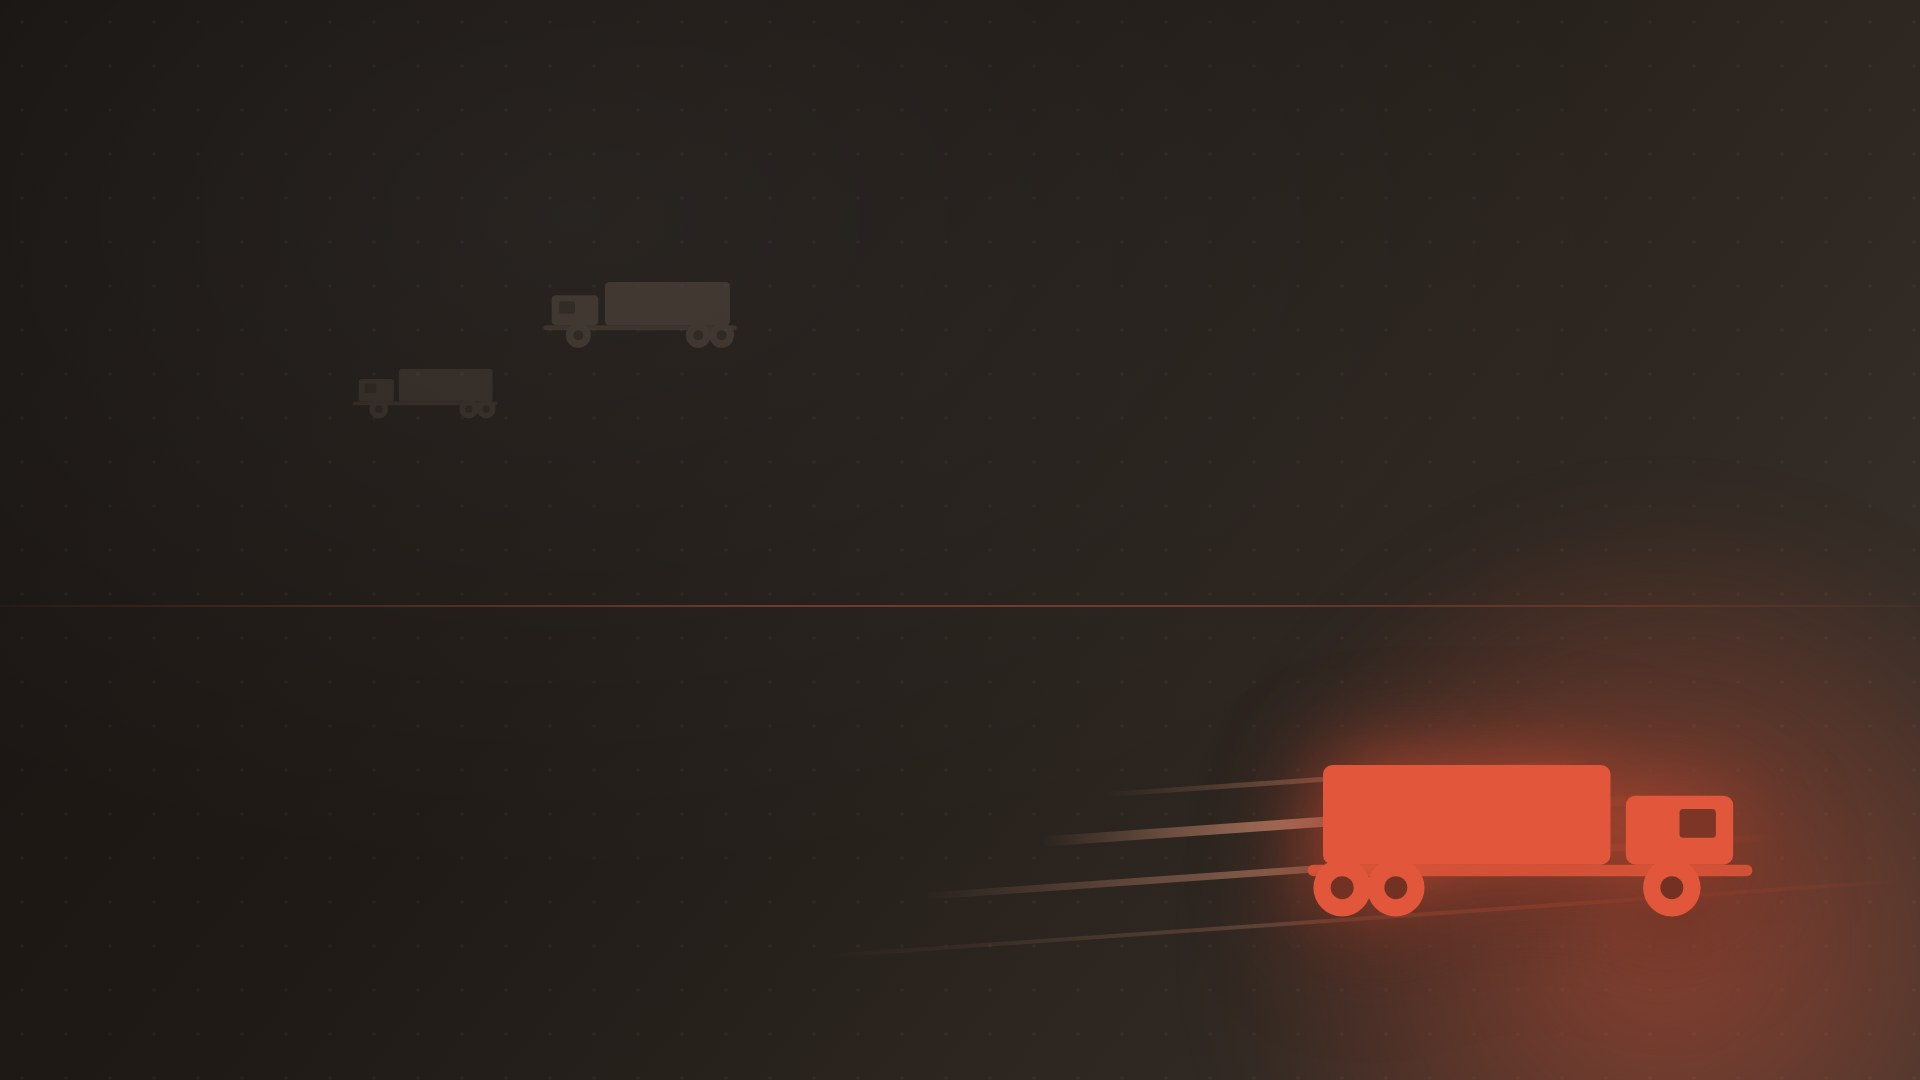
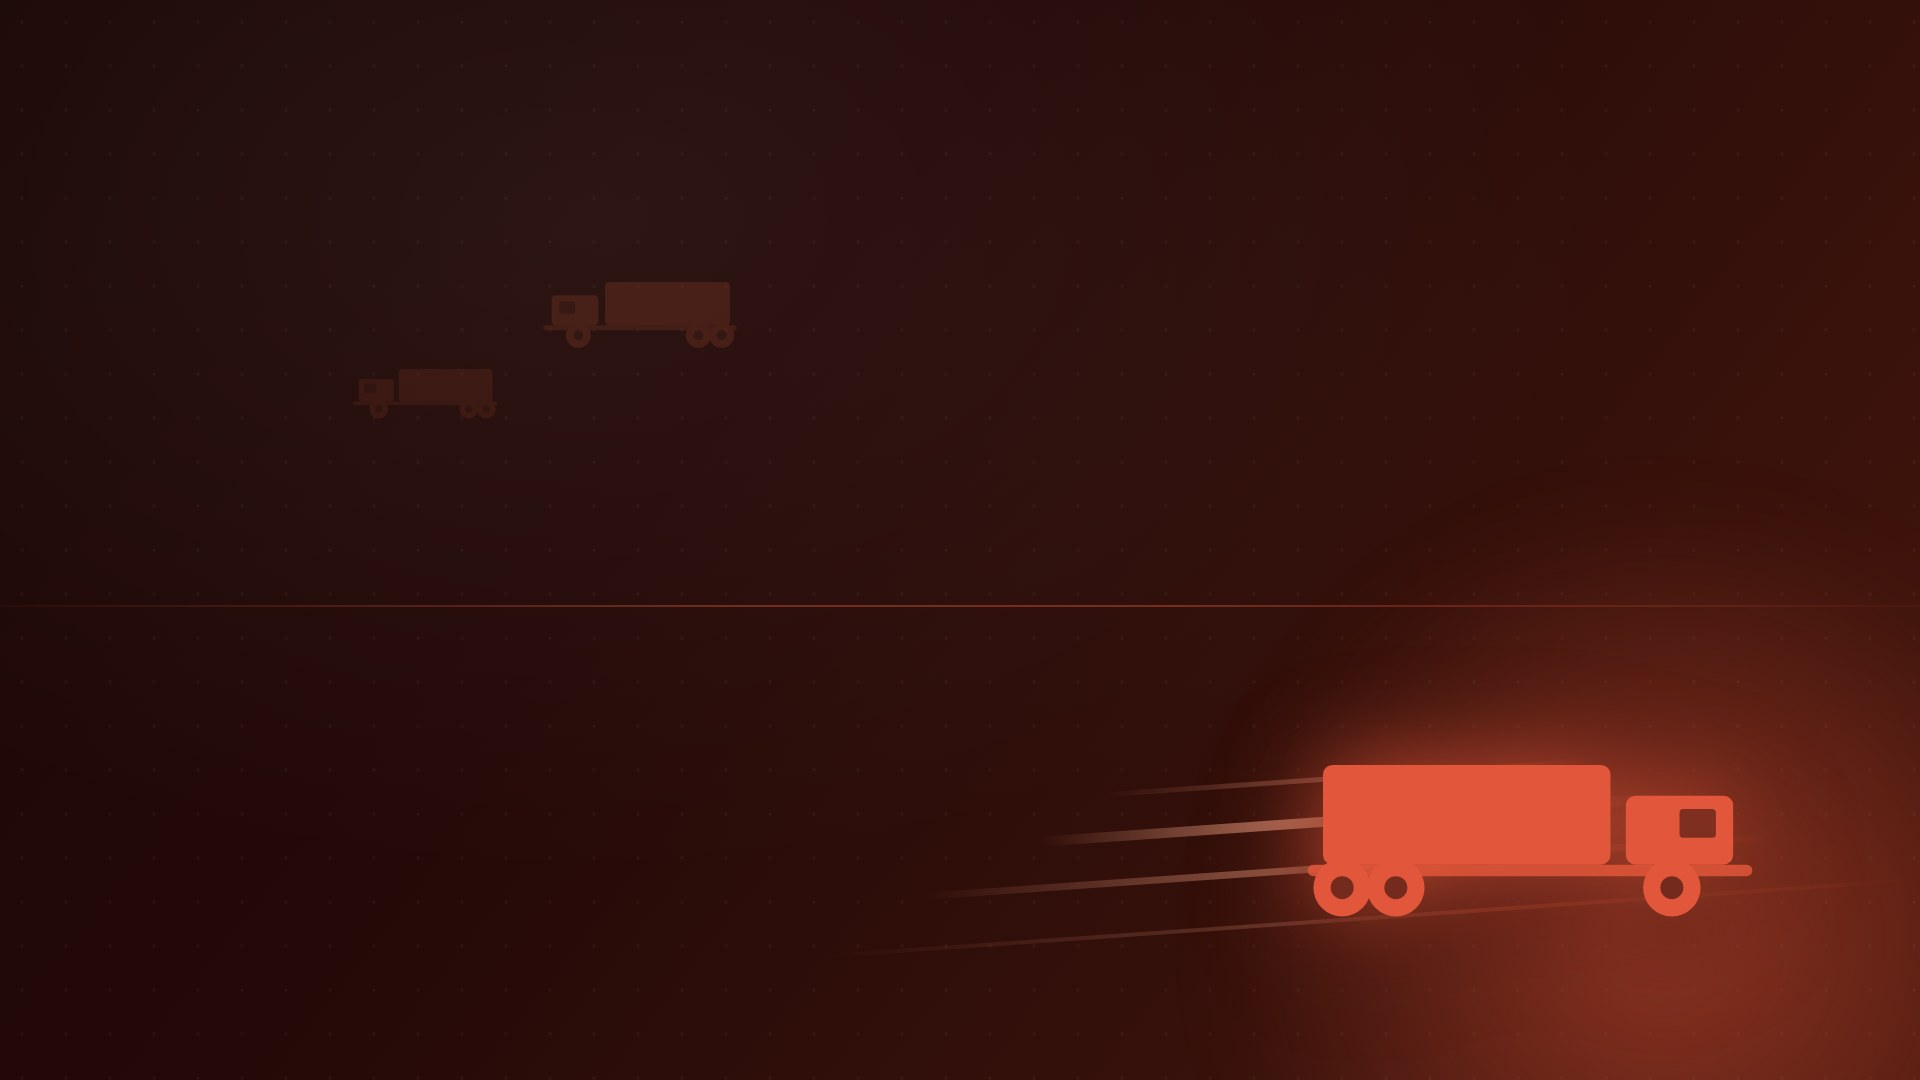
Fix dark theme reading as brown — shift ink ramp to true maroon
The dark "ink" palette introduced for the hero/footer/page-header
sections had hue ~25° (orange-leaning) at low saturation, which reads
as brown rather than a dark shade of the brand red. Rebuilt that ramp
at hue ~6-9° (matching the reference red's own hue) so it reads as a
deep maroon/near-black-red instead:

  --navy-950: #171310 -> #1a0705
  --navy-900: #1f1a16 -> #230907
  --navy-800: #2b241f -> #321008
  --navy-700: #3c332c -> #45170d
  --navy-600: #52453b -> #5e2414

Also re-neutralised the grey-* scale (it shared the old brown hue) so
body text and borders read as true neutral rather than warm-brown, and
updated the few hardcoded rgba() shadow/overlay values and the
theme-color meta tags to match the new ink RGB. Regenerated the three
brand illustrations (hero poster, fleet yard, OG card) with the new
ramp — visually confirmed they now read as oxblood red, not brown.

Claude-Session: https://claude.ai/code/session_01RRWSvEuv8fcfGytAoFkQom

diff --git a/assets/css/style.css b/assets/css/style.css
@@ -4,22 +4,22 @@
 
 :root {
   /* Brand colours */
-  --navy-950: #171310;
-  --navy-900: #1f1a16;
-  --navy-800: #2b241f;
-  --navy-700: #3c332c;
-  --navy-600: #52453b;
+  --navy-950: #1a0705;
+  --navy-900: #230907;
+  --navy-800: #321008;
+  --navy-700: #45170d;
+  --navy-600: #5e2414;
   --red-900: #5c0a00;
   --red-600: #820f01;
   --red-500: #a8220c;
   --red-400: #e2573b;
   --white: #ffffff;
-  --off-white: #faf9f7;
-  --grey-100: #f1efec;
-  --grey-200: #e3ded8;
-  --grey-400: #a89d92;
-  --grey-600: #6b6058;
-  --grey-800: #2b241f;
+  --off-white: #f9f8f6;
+  --grey-100: #f1efed;
+  --grey-200: #e2ddd9;
+  --grey-400: #a39d97;
+  --grey-600: #635c56;
+  --grey-800: #2a2521;
   --success: #1f9d55;
 
   /* Typography */
@@ -31,9 +31,9 @@
   --radius-sm: 8px;
   --radius-md: 14px;
   --radius-lg: 24px;
-  --shadow-sm: 0 2px 8px rgba(23, 19, 16, 0.08);
-  --shadow-md: 0 12px 32px rgba(23, 19, 16, 0.14);
-  --shadow-lg: 0 24px 60px rgba(23, 19, 16, 0.22);
+  --shadow-sm: 0 2px 8px rgba(26, 7, 5, 0.08);
+  --shadow-md: 0 12px 32px rgba(26, 7, 5, 0.14);
+  --shadow-lg: 0 24px 60px rgba(26, 7, 5, 0.22);
   --ease: cubic-bezier(0.22, 1, 0.36, 1);
 }
 
@@ -163,7 +163,7 @@ p.lead { font-size: 1.15rem; color: var(--grey-600); }
   z-index: 500;
   background: rgba(255, 255, 255, 0.9);
   backdrop-filter: blur(10px);
-  border-bottom: 1px solid rgba(23, 19, 16, 0.08);
+  border-bottom: 1px solid rgba(26, 7, 5, 0.08);
   transition: padding 0.3s var(--ease), box-shadow 0.3s var(--ease);
 }
 .site-header.is-scrolled { box-shadow: var(--shadow-sm); }
@@ -201,7 +201,7 @@ p.lead { font-size: 1.15rem; color: var(--grey-600); }
   position: relative;
   transition: color 0.2s, background 0.2s;
 }
-.main-nav a:hover, .main-nav a.active { color: var(--navy-900); background: rgba(23, 19, 16, 0.05); }
+.main-nav a:hover, .main-nav a.active { color: var(--navy-900); background: rgba(26, 7, 5, 0.05); }
 .main-nav a.active::after {
   content: "";
   position: absolute;
@@ -268,7 +268,7 @@ p.lead { font-size: 1.15rem; color: var(--grey-600); }
 .hero-media::after {
   content: "";
   position: absolute; inset: 0;
-  background: linear-gradient(115deg, rgba(23,19,16,0.94) 10%, rgba(23,19,16,0.75) 45%, rgba(31,26,22,0.55) 100%);
+  background: linear-gradient(115deg, rgba(26,7,5,0.94) 10%, rgba(26,7,5,0.75) 45%, rgba(35,9,7,0.55) 100%);
 }
 .hero-content { position: relative; z-index: 2; padding: 160px 0 110px; max-width: 720px; }
 .hero-content .eyebrow { color: var(--red-400); }
@@ -280,7 +280,7 @@ p.lead { font-size: 1.15rem; color: var(--grey-600); }
 .hero-video-toggle {
   position: absolute; z-index: 2; right: 24px; bottom: 24px;
   display: flex; align-items: center; gap: 8px;
-  background: rgba(23,19,16,0.55);
+  background: rgba(26,7,5,0.55);
   border: 1px solid rgba(255,255,255,0.3);
   color: var(--white);
   padding: 10px 16px;
@@ -299,7 +299,7 @@ p.lead { font-size: 1.15rem; color: var(--grey-600); }
   border-top: 1px solid rgba(255,255,255,0.14);
 }
 .hero-stats .stat {
-  background: rgba(23, 19, 16, 0.55);
+  background: rgba(26, 7, 5, 0.55);
   padding: 22px 20px;
   text-align: left;
 }

diff --git a/about.html b/about.html
@@ -11,7 +11,7 @@
 <meta property="og:description" content="Our story, our values, and why businesses across the South West and South Wales trust us with their deadlines.">
 <meta property="og:image" content="https://www.harleytransport.co.uk/assets/images/og-default.jpg">
 <meta name="twitter:card" content="summary_large_image">
-<meta name="theme-color" content="#1f1a16">
+<meta name="theme-color" content="#230907">
 <link rel="icon" href="assets/images/favicon.ico" sizes="any">
 <link rel="apple-touch-icon" href="assets/images/apple-touch-icon.png">
 <link rel="manifest" href="site.webmanifest">

diff --git a/news/choosing-right-vehicle-size-guide.html b/news/choosing-right-vehicle-size-guide.html
@@ -13,7 +13,7 @@
 <meta property="og:url" content="https://www.harleytransport.co.uk/news/choosing-right-vehicle-size-guide.html">
 <meta property="og:image" content="https://www.harleytransport.co.uk/assets/images/og-default.jpg">
 <meta name="twitter:card" content="summary_large_image">
-<meta name="theme-color" content="#1f1a16">
+<meta name="theme-color" content="#230907">
 <link rel="icon" href="../assets/images/favicon.ico" sizes="any">
 <link rel="apple-touch-icon" href="../assets/images/apple-touch-icon.png">
 <link rel="manifest" href="../site.webmanifest">

diff --git a/news/same-day-vs-next-day-delivery.html b/news/same-day-vs-next-day-delivery.html
@@ -13,7 +13,7 @@
 <meta property="og:url" content="https://www.harleytransport.co.uk/news/same-day-vs-next-day-delivery.html">
 <meta property="og:image" content="https://www.harleytransport.co.uk/assets/images/og-default.jpg">
 <meta name="twitter:card" content="summary_large_image">
-<meta name="theme-color" content="#1f1a16">
+<meta name="theme-color" content="#230907">
 <link rel="icon" href="../assets/images/favicon.ico" sizes="any">
 <link rel="apple-touch-icon" href="../assets/images/apple-touch-icon.png">
 <link rel="manifest" href="../site.webmanifest">

diff --git a/coverage-sectors.html b/coverage-sectors.html
@@ -13,7 +13,7 @@
 <meta property="og:url" content="https://www.harleytransport.co.uk/coverage-sectors.html">
 <meta property="og:image" content="https://www.harleytransport.co.uk/assets/images/og-default.jpg">
 <meta name="twitter:card" content="summary_large_image">
-<meta name="theme-color" content="#1f1a16">
+<meta name="theme-color" content="#230907">
 <link rel="icon" href="assets/images/favicon.ico" sizes="any">
 <link rel="apple-touch-icon" href="assets/images/apple-touch-icon.png">
 <link rel="manifest" href="site.webmanifest">

diff --git a/terms-conditions.html b/terms-conditions.html
@@ -13,7 +13,7 @@
 <meta property="og:url" content="https://www.harleytransport.co.uk/terms-conditions.html">
 <meta property="og:image" content="https://www.harleytransport.co.uk/assets/images/og-default.jpg">
 <meta name="twitter:card" content="summary_large_image">
-<meta name="theme-color" content="#1f1a16">
+<meta name="theme-color" content="#230907">
 <link rel="icon" href="assets/images/favicon.ico" sizes="any">
 <link rel="apple-touch-icon" href="assets/images/apple-touch-icon.png">
 <link rel="manifest" href="site.webmanifest">

diff --git a/privacy-policy.html b/privacy-policy.html
@@ -13,7 +13,7 @@
 <meta property="og:url" content="https://www.harleytransport.co.uk/privacy-policy.html">
 <meta property="og:image" content="https://www.harleytransport.co.uk/assets/images/og-default.jpg">
 <meta name="twitter:card" content="summary_large_image">
-<meta name="theme-color" content="#1f1a16">
+<meta name="theme-color" content="#230907">
 <link rel="icon" href="assets/images/favicon.ico" sizes="any">
 <link rel="apple-touch-icon" href="assets/images/apple-touch-icon.png">
 <link rel="manifest" href="site.webmanifest">

diff --git a/services.html b/services.html
@@ -13,7 +13,7 @@
 <meta property="og:url" content="https://www.harleytransport.co.uk/services.html">
 <meta property="og:image" content="https://www.harleytransport.co.uk/assets/images/og-default.jpg">
 <meta name="twitter:card" content="summary_large_image">
-<meta name="theme-color" content="#1f1a16">
+<meta name="theme-color" content="#230907">
 <link rel="icon" href="assets/images/favicon.ico" sizes="any">
 <link rel="apple-touch-icon" href="assets/images/apple-touch-icon.png">
 <link rel="manifest" href="site.webmanifest">

diff --git a/careers.html b/careers.html
@@ -13,7 +13,7 @@
 <meta property="og:url" content="https://www.harleytransport.co.uk/careers.html">
 <meta property="og:image" content="https://www.harleytransport.co.uk/assets/images/og-default.jpg">
 <meta name="twitter:card" content="summary_large_image">
-<meta name="theme-color" content="#1f1a16">
+<meta name="theme-color" content="#230907">
 <link rel="icon" href="assets/images/favicon.ico" sizes="any">
 <link rel="apple-touch-icon" href="assets/images/apple-touch-icon.png">
 <link rel="manifest" href="site.webmanifest">

diff --git a/contact.html b/contact.html
@@ -13,7 +13,7 @@
 <meta property="og:url" content="https://www.harleytransport.co.uk/contact.html">
 <meta property="og:image" content="https://www.harleytransport.co.uk/assets/images/og-default.jpg">
 <meta name="twitter:card" content="summary_large_image">
-<meta name="theme-color" content="#1f1a16">
+<meta name="theme-color" content="#230907">
 <link rel="icon" href="assets/images/favicon.ico" sizes="any">
 <link rel="apple-touch-icon" href="assets/images/apple-touch-icon.png">
 <link rel="manifest" href="site.webmanifest">

diff --git a/fleet.html b/fleet.html
@@ -13,7 +13,7 @@
 <meta property="og:url" content="https://www.harleytransport.co.uk/fleet.html">
 <meta property="og:image" content="https://www.harleytransport.co.uk/assets/images/og-default.jpg">
 <meta name="twitter:card" content="summary_large_image">
-<meta name="theme-color" content="#1f1a16">
+<meta name="theme-color" content="#230907">
 <link rel="icon" href="assets/images/favicon.ico" sizes="any">
 <link rel="apple-touch-icon" href="assets/images/apple-touch-icon.png">
 <link rel="manifest" href="site.webmanifest">

diff --git a/quote.html b/quote.html
@@ -13,7 +13,7 @@
 <meta property="og:url" content="https://www.harleytransport.co.uk/quote.html">
 <meta property="og:image" content="https://www.harleytransport.co.uk/assets/images/og-default.jpg">
 <meta name="twitter:card" content="summary_large_image">
-<meta name="theme-color" content="#1f1a16">
+<meta name="theme-color" content="#230907">
 <link rel="icon" href="assets/images/favicon.ico" sizes="any">
 <link rel="apple-touch-icon" href="assets/images/apple-touch-icon.png">
 <link rel="manifest" href="site.webmanifest">
